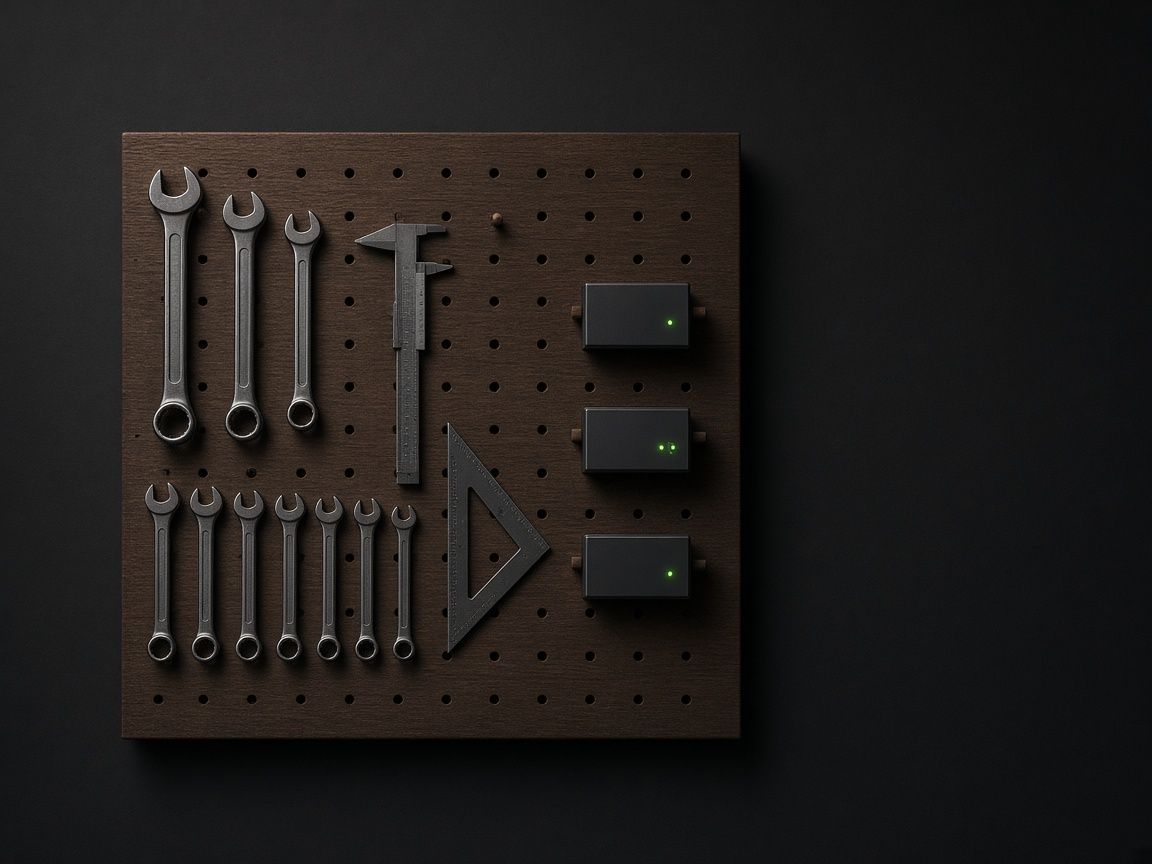
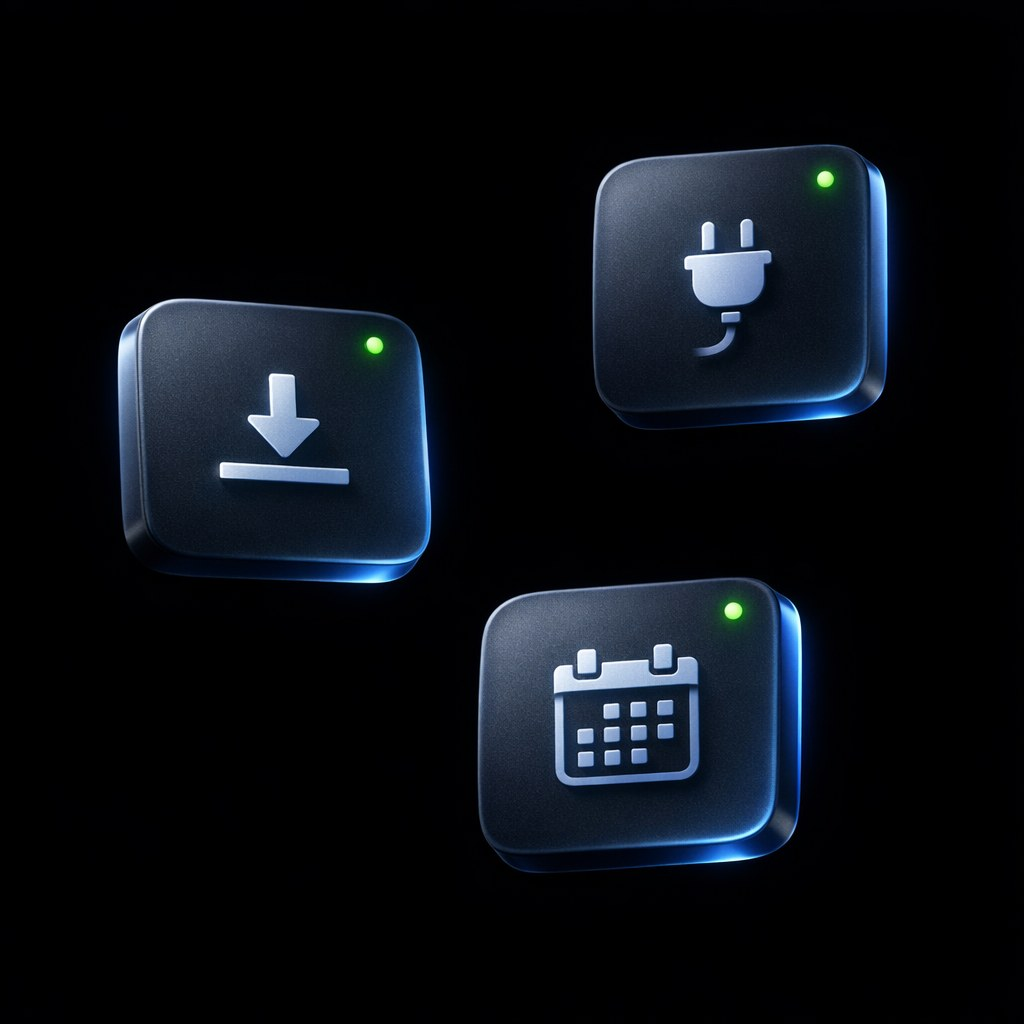
design: replace homepage art with OpenAI gpt-image assets

diff --git a/app/page.tsx b/app/page.tsx
@@ -104,7 +104,7 @@ export default function Home() {
               <div className="relative aspect-[16/9] overflow-hidden rounded-lg bg-surface-2">
                 <Image
                   src="/art/hero-shed.jpg"
-                  alt="Cinematic night view of a wooden tool shed with warm light spilling from the open door, pegboard tools and workbench inside"
+                  alt="Dark SaaS directory UI mockup for AgentYard with search and tool listings"
                   fill
                   priority
                   sizes="(max-width: 768px) 100vw, 560px"
@@ -125,7 +125,7 @@ export default function Home() {
             <div className="relative aspect-[21/9] overflow-hidden rounded-lg bg-surface-2 sm:aspect-[2.4/1]">
               <Image
                 src="/art/benefit-tools.jpg"
-                alt="Pegboard wall of hand tools beside modular LED status panels on a workbench"
+                alt="Three frosted glass module icons on black representing agent tools"
                 fill
                 sizes="(max-width: 768px) 100vw, 1152px"
                 className="object-cover"
@@ -167,7 +167,7 @@ export default function Home() {
             <div className="relative min-h-[220px] overflow-hidden rounded-lg bg-surface-2 md:min-h-0">
               <Image
                 src="/art/weekly-desk.jpg"
-                alt="Desk still life with notebook, coffee, and printed weekly digest sheets under warm lamp light"
+                alt="Black folded weekly digest with blue ribbon still life"
                 fill
                 sizes="(max-width: 768px) 100vw, 560px"
                 className="object-cover"
